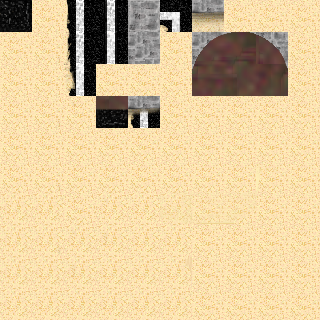
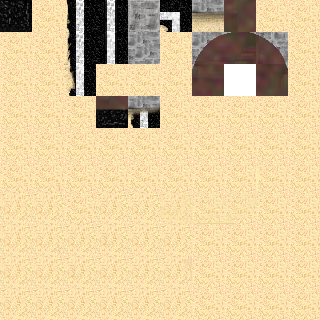
ChaoMetodo limpiarPantalla

Changed region(s): [[0.6875, 0.1875, 0.8125, 0.3125], [0.6875, 0.0, 0.8125, 0.125]]

diff --git a/src/mapa/MapaCargado.java b/src/mapa/MapaCargado.java
@@ -49,23 +49,23 @@ public class MapaCargado extends Mapa {
 		for (int i = 0; i < pixeles.length; i++) {
 			switch (pixeles[i]) {
 			// cada color corresponde a un sprite
-			case 0x5a5a5a:
+			case 0xff5a5a5a:
 				cuadrosCatalogo[i] = Cuadro.ASFALTO;//
 				// continue para saltar del switch case, y pasar
 				// a la siguiente iteracion
 				// colocar ff canal Alfa
 				continue;
-			case 0xffefb6:
+			case 0xffffefb6:
 				cuadrosCatalogo[i] = Cuadro.ARENA;//
 				continue;
 			case 0xffa6a4a3:
 				cuadrosCatalogo[i] = Cuadro.PIEDRA;
 				continue;
 			case 0xff68505a:
-				cuadrosCatalogo[i] = Cuadro.OXIDO;//
+				cuadrosCatalogo[i] = Cuadro.OXIDO;// puerta + asfalto
 				continue;
 			case 0xff857e70:
-				cuadrosCatalogo[i] = Cuadro.PIEDRA_ARENA_ASFALTO;// d2d2cb
+				cuadrosCatalogo[i] = Cuadro.PIEDRA_ARENA_ASFALTO;// 938a79
 				continue;
 			case 0xff2b2416:
 				cuadrosCatalogo[i] = Cuadro.BORDE_ASFALTO;
@@ -73,10 +73,10 @@ public class MapaCargado extends Mapa {
 			case 0xffd2d2cb:
 				cuadrosCatalogo[i] = Cuadro.RALLA_ASFALTO;//
 				continue;
-			case 0xffb3ac99:
-				cuadrosCatalogo[i] = Cuadro.ESQUINA_ASFALTO;//
+			case 0xffcdcfa7:
+				cuadrosCatalogo[i] = Cuadro.ESQUINA_ASFALTO;// cdcfa7 b3ac99
 				continue;
-			case 0xff7c1541:
+			case 0xff553833:
 				cuadrosCatalogo[i] = Cuadro.PUERTA_CENTRAL_IZQUIERDA;//
 				continue;
 			case 0xff850038:
@@ -90,6 +90,7 @@ public class MapaCargado extends Mapa {
 				continue;
 			case 0xff524736:
 				cuadrosCatalogo[i] = Cuadro.PUERTA_CENTRAL;//
+				continue;
 			default:
 				cuadrosCatalogo[i] = Cuadro.VACIO; // cuadro negro
 			}

diff --git a/src/grapicos/Sprite.java b/src/grapicos/Sprite.java
@@ -13,6 +13,7 @@ public final class Sprite {
 	// 2 contructores, 0 = a negro.
 
 	public static final Sprite VACIO = new Sprite(32, 0);
+
 	public static final Sprite ASFALTO = new Sprite(32, 0, 0, HojaSprites.desierto);
 
 	public static final Sprite ARENA = new Sprite(32, 1, 0, HojaSprites.desierto);
@@ -35,7 +36,7 @@ public final class Sprite {
 
 	public static final Sprite PUERTA_CENTRAL_IZQUIERDA = new Sprite(32, 6, 2, HojaSprites.desierto);
 
-	public static final Sprite PUERTA_CENTRAL = new Sprite(32, 7, 2, HojaSprites.desierto);
+	public static final Sprite PUERTA_CENTRAL = new Sprite(32, 7, 0, HojaSprites.desierto);
 
 	public static final Sprite PUERTA_CENTRAL_DERECHA = new Sprite(32, 8, 2, HojaSprites.desierto);
 

diff --git a/src/juego/Juego.java b/src/juego/Juego.java
@@ -103,13 +103,17 @@ public class Juego extends Canvas implements Runnable {
 		 */
 		if (teclado.arriba) { // tecla W
 			y--;// abajo
-		} else if (teclado.abajo) {
+		}
+		if (teclado.abajo) {
 			y++;// arriba
-		} else if (teclado.izquierda) {
+		}
+		if (teclado.izquierda) {
 			x--; // derecha
-		} else if (teclado.derecha) {
+		}
+		if (teclado.derecha) {
 			x++;// izquierda
-		} else if (teclado.salir) {
+		}
+		if (teclado.salir) {
 			System.exit(0);
 		}
 

diff --git a/src/control/Teclado.java b/src/control/Teclado.java
@@ -10,7 +10,10 @@ public final class Teclado implements KeyListener {
 
 	// sin getter and setters, para evitar retrasos en
 	// el procesamiento
-	public boolean arriba, abajo, izquierda, derecha;
+	public boolean arriba;
+	public boolean abajo;
+	public boolean izquierda;
+	public boolean derecha;
 	public boolean salir;
 
 	public void actualizar() {
